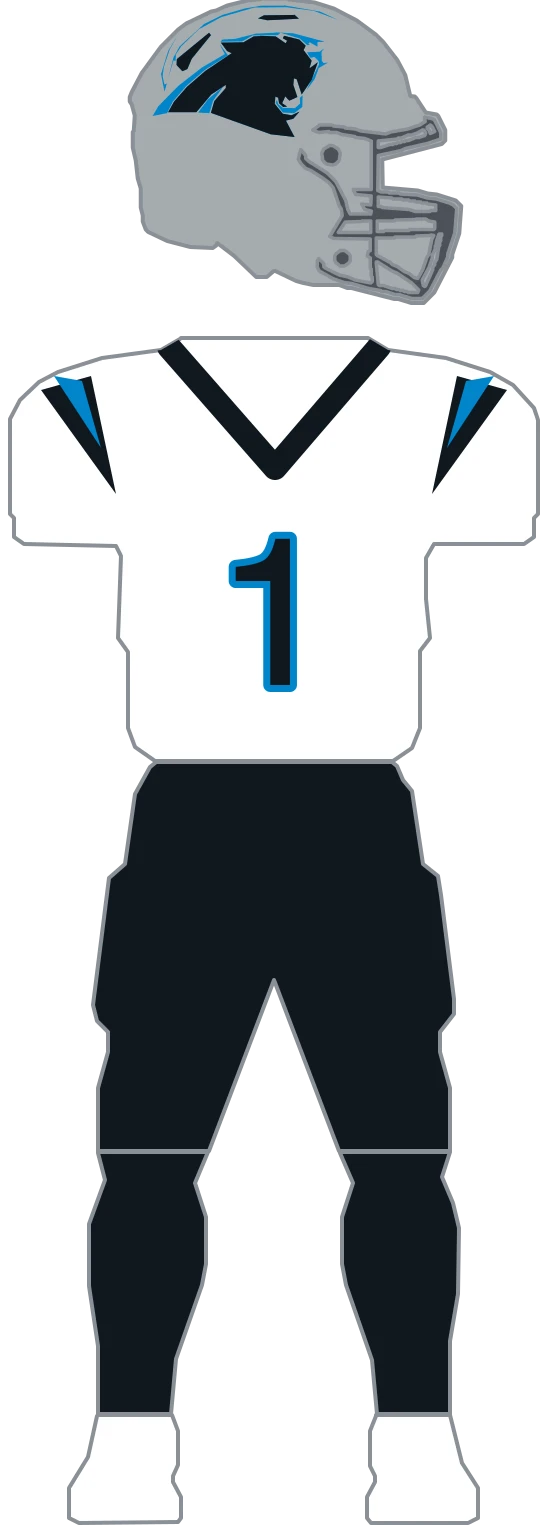
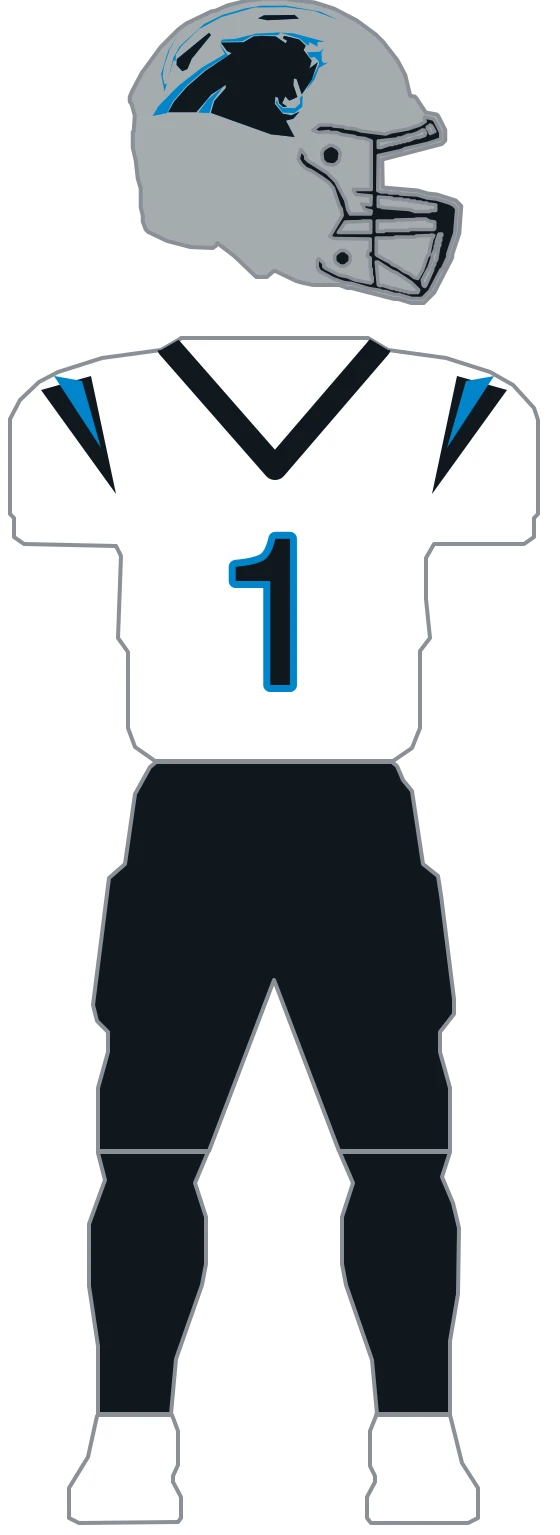
feat(uniforms): migrate Panthers to composable parts and set its black facemask (#705)
All three kits are ONE construction with the tokens swapped: the panther on
the shell, a deep V-collar, and on each shoulder a fan authored as a wider
triangle with a shorter one painted over it. Parts express that as 2 helmets
/ 3 jerseys / 1 pants, matching the measured target exactly.

Both savings are real and invisible in the flat form. The away and
black-alternate kits wear the SAME silver shell with the SAME blue-over-black
mark, but the flat definition reached the silver two different ways — a
literal away, `accent` on the black alternate — because silver only enters the
palette on one of them. Pants factor the same way: black on every kit,
previously `secondary` at home, `accent` away, and the implicit `primary` on
the black alternate.

The home shell stays its own part despite carrying identical decal colors: on
black, the mark's black body disappears into the shell and the blue silhouette
reads alone, exactly as the reference draws it.

The migration's parity gate proved all 6 panthers rasters (3 kits x 2
variants) byte-identical against the flat definition, then the flat definition
and its builder helpers were deleted and the team removed from MIGRATED, per
the one-time-proof lifecycle (depth#660). The collar path/width were
module-private consts; they are now exported for the parts file.

Facemask follows the parts migration per phase order: every figure on the GUD
2025 composite wears a black cage, on both the silver and the black shell.
[…]

diff --git a/lib/uniforms/teams/panthers.ts b/lib/uniforms/teams/panthers.ts
@@ -1,5 +1,3 @@
-import type { ColorRef, TeamUniformDefinition, UniformLayer } from './types';
-
 // Carolina's three archived kits, redrawn from the Gridiron Uniform Database 2025 composite in
 // nfl-uniform-refs/panthers (black alternate is that sheet's row-2 figure 1, home its row-2
 // figure 5, away its row-3 figure 1 — each row's later figures are pant combinations, and the
@@ -16,13 +14,12 @@ import type { ColorRef, TeamUniformDefinition, UniformLayer } from './types';
 //
 // Out of scope on every kit: the chest wordmark, the league shield, the "KEEP POUNDING" collar
 // script, the panther patch on each sleeve, and the shoulder numerals GUD draws above the fan.
-
-// Two literals. The home palette is blue over black with accent === secondary (ESPN supplies only
-// two colors), so nothing resolves to the white wedge or the white numeral face; and the AWAY
-// palette (white/blue/black) carries no silver, so its shell has no token either. The silver is the
-// hex the archive already stores as this club's black-alternate accent (lib/uniforms/data.ts).
-export const PANTHERS_WHITE = '#FFFFFF';
-export const PANTHERS_SILVER = '#A5ACAF';
+//
+// Construction geometry only — the mark, fan, and collar paths. The composable parts definition
+// that consumes them lives in ./panthers.parts.ts; the former flat PANTHERS_UNIFORMS was deleted
+// in the migration that proved parts render byte-identically (see parts-parity.test.ts for the
+// one-time gate). The collar path/width were module-private consts; they are now exported for the
+// parts file.
 
 // Provenance: contour trace of the club's mark from the GUD composite — a reproduction
 // of a third-party mark, not original geometry. The mark is NON-FREE upstream
@@ -55,119 +52,5 @@ export const PANTHERS_WEDGE_RIGHT = 'M514,421 L486,426 L467,493 Z';
 // The collar V, measured on the same figure: the band's outer corner sits at reference (1085,703)
 // and both arms meet at (1119,745) — far deeper than the generic chevron, whose point is at y=455.
 // Roughly 9 reference px thick measured horizontally, which is ~24 units perpendicular to the arm.
-const PANTHERS_COLLAR_PATH = 'M189,392 L295,513 L399,392';
-const PANTHERS_COLLAR_WIDTH = 24;
-
-const GENERIC_STRIPPED = [
-  'generic-helmet-stripe',
-  'generic-sleeve-yoke-left',
-  'generic-sleeve-yoke-right',
-  'generic-sleeve-stripe-left',
-  'generic-sleeve-stripe-right',
-  'generic-collar',
-  'generic-pants-stripe-left',
-  'generic-pants-stripe-right',
-];
-
-// Wider triangle first, shorter one over it — the gap left below the middle band's point is where
-// the two outer bands merge in the reference.
-function shoulderFan(outer: ColorRef, middle: ColorRef): UniformLayer[] {
-  const shapes: [string, 'sleeve-left' | 'sleeve-right', string, ColorRef][] = [
-    ['panthers-fan-left', 'sleeve-left', PANTHERS_FAN_LEFT, outer],
-    ['panthers-fan-right', 'sleeve-right', PANTHERS_FAN_RIGHT, outer],
-    ['panthers-wedge-left', 'sleeve-left', PANTHERS_WEDGE_LEFT, middle],
-    ['panthers-wedge-right', 'sleeve-right', PANTHERS_WEDGE_RIGHT, middle],
-  ];
-  return shapes.map(([id, surface, d, fill]) => ({
-    id,
-    surface,
-    d,
-    clip: true,
-    kind: 'fill',
-    fill,
-  }));
-}
-
-function collar(fill: ColorRef): UniformLayer[] {
-  return [
-    {
-      id: 'panthers-collar',
-      surface: 'collar',
-      d: PANTHERS_COLLAR_PATH,
-      clip: true,
-      kind: 'stroke',
-      stroke: fill,
-      strokeWidth: PANTHERS_COLLAR_WIDTH,
-    },
-  ];
-}
-
-function decal(keyline: ColorRef, body: ColorRef): UniformLayer[] {
-  return [
-    {
-      id: 'panthers-decal-silhouette',
-      surface: 'helmet',
-      d: PANTHERS_DECAL_SILHOUETTE_PATH,
-      clip: true,
-      kind: 'fill',
-      fill: keyline,
-    },
-    {
-      id: 'panthers-decal-body',
-      surface: 'helmet',
-      d: PANTHERS_DECAL_BODY_PATH,
-      clip: true,
-      kind: 'fill',
-      fill: body,
-    },
-  ];
-}
-
-export const PANTHERS_UNIFORMS: TeamUniformDefinition = {
-  teamId: 'panthers',
-  // Every kit strips the same generic model; what differs is only which token carries each color.
-  defaults: { removeLayerIds: GENERIC_STRIPPED },
-  kits: {
-    // Blue body over black pants under a black shell — the only kit in the reference whose shell is
-    // not silver. Black is `secondary` here, so it carries the shell, the collar, the middle wedge
-    // and the numeral keyline; the outer wedge and numeral face are white, which this palette
-    // cannot supply, so both take the literal. On a black shell the decal's black body disappears
-    // into the shell and the blue silhouette reads alone, exactly as the reference draws it.
-    home: {
-      helmetColor: 'secondary',
-      pantsColor: 'secondary',
-      layers: [
-        ...shoulderFan(PANTHERS_WHITE, 'secondary'),
-        ...collar('secondary'),
-        ...decal('primary', 'secondary'),
-      ],
-      number: { fill: PANTHERS_WHITE, outline: 'secondary', outlineWidth: 14 },
-    },
-    // White body over black pants under the silver shell. The away palette moves white into
-    // primary, blue into secondary and black into accent, so the fan inverts to black-outside-blue
-    // and the numerals invert to a black face. Silver has no token here, so the shell takes the
-    // literal.
-    away: {
-      helmetColor: PANTHERS_SILVER,
-      pantsColor: 'accent',
-      layers: [
-        ...shoulderFan('accent', 'secondary'),
-        ...collar('accent'),
-        ...decal('secondary', 'accent'),
-      ],
-      number: { fill: 'accent', outline: 'secondary', outlineWidth: 14 },
-    },
-    // Black body and pants under the silver shell. This is the only kit whose palette carries
-    // silver — as `accent` — so the shell and the outer wedge both resolve from a token, and the
-    // numeral face is white again.
-    'black-alt': {
-      helmetColor: 'accent',
-      layers: [
-        ...shoulderFan('accent', 'secondary'),
-        ...collar('secondary'),
-        ...decal('secondary', 'primary'),
-      ],
-      number: { fill: PANTHERS_WHITE, outline: 'secondary', outlineWidth: 14 },
-    },
-  },
-};
+export const PANTHERS_COLLAR_PATH = 'M189,392 L295,513 L399,392';
+export const PANTHERS_COLLAR_WIDTH = 24;

diff --git a/lib/uniforms/teams/panthers.parts.ts b/lib/uniforms/teams/panthers.parts.ts
@@ -1,0 +1,141 @@
+// Carolina authored as composable parts. Geometry is imported unchanged from panthers.ts — this
+// file only restates WHICH parts each kit combines, and names every color from the team palette
+// instead of the kit row's shifting primary/secondary/accent.
+//
+// All three kits are ONE construction with the tokens swapped: the panther on the shell, a deep
+// V-collar, and on each shoulder a fan of three tapering wedges authored as a wider triangle with
+// a shorter one painted over it. No helmet stripe and no pant stripe.
+//
+// The measured target is 2 helmet / 3 jersey / 1 pants, and that is what this factors to. Both
+// savings are real and neither is visible in the flat form. The away and black-alternate kits wear
+// the SAME silver shell with the SAME blue-over-black mark, but the flat definition reached the
+// silver two different ways — a literal on the away kit, `accent` on the black alternate — because
+// silver only enters the palette on one of them. One part now. Pants are one part too: black on
+// every kit, previously `secondary` at home, `accent` away, and the implicit `primary` on the
+// black alternate.
+//
+// The mark is two layers on every shell: a blue silhouette under a black body, so the blue reads
+// as the keyline it is. On the home kit's black shell the black body disappears into the shell and
+// the blue silhouette reads alone, exactly as the reference draws it — that is why the home helmet
+// is a separate part despite carrying identical decal colors.
+
+import {
+  PANTHERS_DECAL_BODY_PATH,
+  PANTHERS_DECAL_SILHOUETTE_PATH,
+  PANTHERS_FAN_LEFT,
+  PANTHERS_FAN_RIGHT,
+  PANTHERS_WEDGE_LEFT,
+  PANTHERS_WEDGE_RIGHT,
+  PANTHERS_COLLAR_PATH,
+  PANTHERS_COLLAR_WIDTH,
+} from './panthers';
+import { compileParts, type PartLayer, type TeamPartsDefinition, type UniformPart } from './parts';
+
+// Wider triangle first, shorter one over it — the gap left below the middle band's point is where
+// the two outer bands merge in the reference.
+function shoulderFan(outer: string, middle: string): PartLayer[] {
+  const shapes: [string, 'sleeve-left' | 'sleeve-right', string, string][] = [
+    ['panthers-fan-left', 'sleeve-left', PANTHERS_FAN_LEFT, outer],
+    ['panthers-fan-right', 'sleeve-right', PANTHERS_FAN_RIGHT, outer],
+    ['panthers-wedge-left', 'sleeve-left', PANTHERS_WEDGE_LEFT, middle],
+    ['panthers-wedge-right', 'sleeve-right', PANTHERS_WEDGE_RIGHT, middle],
+  ];
+  return shapes.map(([id, surface, d, fill]) => ({
+    id,
+    surface,
+    d,
+    clip: true,
+    kind: 'fill',
+    fill,
+  }));
+}
+
+function collar(fill: string): PartLayer[] {
+  return [
+    {
+      id: 'panthers-collar',
+      surface: 'collar',
+      d: PANTHERS_COLLAR_PATH,
+      clip: true,
+      kind: 'stroke',
+      stroke: fill,
+      strokeWidth: PANTHERS_COLLAR_WIDTH,
+    },
+  ];
+}
+
+// Blue silhouette under a black body, in that paint order — the same two colors on every shell.
+function decal(): PartLayer[] {
+  return [
+    {
+      id: 'panthers-decal-silhouette',
+      surface: 'helmet',
+      d: PANTHERS_DECAL_SILHOUETTE_PATH,
+      clip: true,
+      kind: 'fill',
+      fill: 'blue',
+    },
+    {
+      id: 'panthers-decal-body',
+      surface: 'helmet',
+      d: PANTHERS_DECAL_BODY_PATH,
+      clip: true,
+      kind: 'fill',
+      fill: 'black',
+    },
+  ];
+}
+
+// Home shell (H1): black, the only kit in the reference whose shell is not silver. The cage is
+// black on every figure of the GUD 2025 composite (nfl-uniform-refs/panthers), on both shells.
+const HELMET_BLACK: UniformPart = { base: 'black', facemask: 'black', layers: decal() };
+
+// Away and black-alternate shell (H2): silver, same mark, same black cage.
+const HELMET_SILVER: UniformPart = { base: 'silver', facemask: 'black', layers: decal() };
+
+// Home jersey (J1): blue body, white-outside-black fan, black collar, white numerals.
+const JERSEY_BLUE: UniformPart = {
+  base: 'blue',
+  layers: [...shoulderFan('white', 'black'), ...collar('black')],
+  number: { fill: 'white', outline: 'black', outlineWidth: 14 },
+};
+
+// Away jersey (J2): white body, the fan inverted to black-outside-blue, black collar, black
+// numerals.
+const JERSEY_WHITE: UniformPart = {
+  base: 'white',
+  layers: [...shoulderFan('black', 'blue'), ...collar('black')],
+  number: { fill: 'black', outline: 'blue', outlineWidth: 14 },
+};
+
+// Black-alternate jersey (J3): black body, silver-outside-blue fan, blue collar, white numerals.
+const JERSEY_BLACK: UniformPart = {
+  base: 'black',
+  layers: [...shoulderFan('silver', 'blue'), ...collar('blue')],
+  number: { fill: 'white', outline: 'blue', outlineWidth: 14 },
+};
+
+// The only pants (P1): black and unbroken on every kit.
+const PANTS_BLACK: UniformPart = { base: 'black', layers: [] };
+
+export const PANTHERS_PARTS: TeamPartsDefinition = {
+  teamId: 'panthers',
+  // Jersey hexes from the curated rows (lib/uniforms/data.ts). Silver is the hex the archive
+  // already stores as this club's black-alternate accent.
+  palette: {
+    blue: '#0085CA',
+    black: '#101820',
+    silver: '#A5ACAF',
+    white: '#FFFFFF',
+  },
+  helmets: { black: HELMET_BLACK, silver: HELMET_SILVER },
+  jerseys: { blue: JERSEY_BLUE, white: JERSEY_WHITE, black: JERSEY_BLACK },
+  pants: { black: PANTS_BLACK },
+  kits: {
+    home: { helmet: 'black', jersey: 'blue', pants: 'black' },
+    away: { helmet: 'silver', jersey: 'white', pants: 'black' },
+    'black-alt': { helmet: 'silver', jersey: 'black', pants: 'black' },
+  },
+};
+
+export const PANTHERS_UNIFORMS_FROM_PARTS = compileParts(PANTHERS_PARTS);

diff --git a/lib/uniforms/teams/index.ts b/lib/uniforms/teams/index.ts
@@ -20,7 +20,7 @@ import { JETS_UNIFORMS_FROM_PARTS } from './jets.parts';
 import { LIONS_UNIFORMS_FROM_PARTS } from './lions.parts';
 import { NINERS_UNIFORMS_FROM_PARTS } from './niners.parts';
 import { PACKERS_UNIFORMS_FROM_PARTS } from './packers.parts';
-import { PANTHERS_UNIFORMS } from './panthers';
+import { PANTHERS_UNIFORMS_FROM_PARTS } from './panthers.parts';
 import { PATRIOTS_UNIFORMS } from './patriots';
 import { RAIDERS_UNIFORMS_FROM_PARTS } from './raiders.parts';
 import { RAMS_UNIFORMS } from './rams';
@@ -59,7 +59,7 @@ const DEFINITIONS: Readonly<Partial<Record<string, TeamUniformDefinition>>> = {
   jets: JETS_UNIFORMS_FROM_PARTS,
   lions: LIONS_UNIFORMS_FROM_PARTS,
   packers: PACKERS_UNIFORMS_FROM_PARTS,
-  panthers: PANTHERS_UNIFORMS,
+  panthers: PANTHERS_UNIFORMS_FROM_PARTS,
   patriots: PATRIOTS_UNIFORMS,
   raiders: RAIDERS_UNIFORMS_FROM_PARTS,
   rams: RAMS_UNIFORMS,
